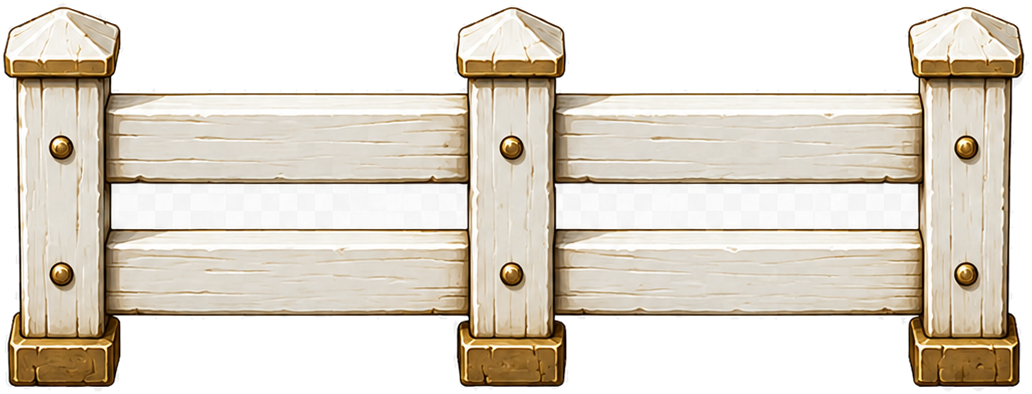
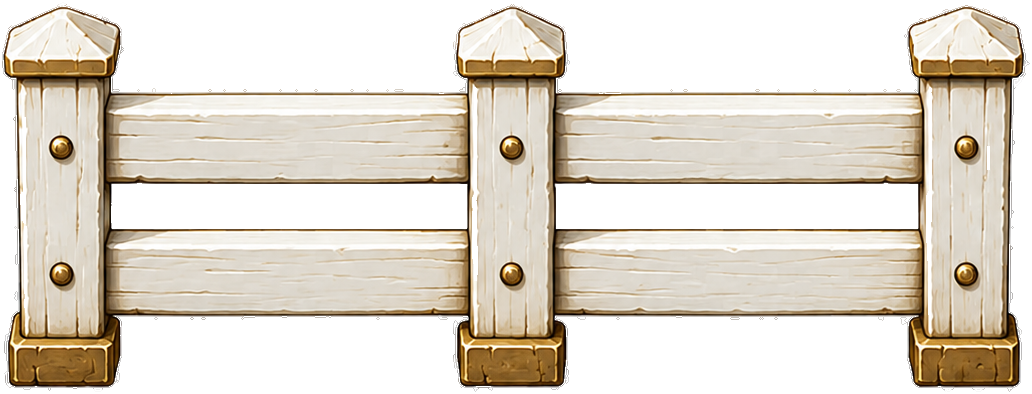
some object have been fixed from transparancy

diff --git a/game.js b/game.js
@@ -136,7 +136,9 @@ const FARM_BUILD=[
  {id:'dirt_road',n:'Dirt Road',img:'dirt_road',tab:'o',road:1,rw:44,W:44,gy:22},
  {id:'gravel_road',n:'Gravel Road',img:'gravel_road',tab:'o',road:1,rw:44,W:44,gy:22},
  /* 🌳 Decoration */
- {id:'light_farm',n:'Lamp Post',img:'light_farm',tab:'d',W:42,gy:10,col:{r:8}},
+ /* glow: where the flame sits in the art, as fractions of the sprite - measured off the pixels,
+    not eyeballed - plus the pool's radius as a fraction of W. See the farmitem draw for the flicker. */
+ {id:'light_farm',n:'Lamp Post',img:'light_farm',tab:'d',W:42,gy:10,col:{r:8},glow:{fx:0.799,fy:0.408,r:0.78}},
  {id:'bush',n:'Bush',img:'häck_farm',tab:'d',W:130,gy:16,col:{r:14,crx:65,cry:10,cyo:5},snap:'h'},
  {id:'bushv',n:'Bush (vertical)',img:'häckvertikal_farm',tab:'d',W:53,gy:16,col:{r:14,crx:18,cry:60,cyo:-45},snap:'v'},
  /* the roaming herd paths around anything with col, so the two ground pieces below carry
@@ -159,6 +161,13 @@ const FARM_BUILD=[
  {id:'haywagon',n:'Hay Wagon',img:'haywagon_farm',tab:'d',W:170,gy:20,col:{r:30,crx:74,cry:28,cyo:-6}},
  {id:'beehives',n:'Beehives',img:'beehives_farm',tab:'d',W:80,gy:12,col:{r:18}},
  {id:'farmsign',n:'Farm Sign',img:'farmsign_farm',tab:'d',W:60,gy:10,col:{r:8}},
+ /* --- decorations added later. sh values are measured off each sprite's real ground contact,
+        not guessed off its silhouette - see the tree/fountain note above for why that matters. --- */
+ {id:'windmill',n:'Windmill',img:'windmill_farm',tab:'d',W:150,gy:16,col:{r:30},sh:{rx:0.38,ry:0.10,dy:-0.01}},
+ {id:'appletree',n:'Apple Tree',img:'appletree_farm',tab:'d',W:170,gy:14,col:{r:16},
+  sh:{rx:0.22,ry:0.055,dy:-0.005},sway:{amp:0.030,spd:0.78,hold:0.58}}, /* sways like tree_farm - trunk still, canopy bends */
+ {id:'woodpile',n:'Firewood Pile',img:'woodpile_farm',tab:'d',W:125,gy:10,col:{r:16,crx:44,cry:14,cyo:0},sh:{rx:0.34,ry:0.075,dy:-0.01}},
+ {id:'crates',n:'Produce Crates',img:'crates_farm',tab:'d',W:105,gy:10,col:{r:14,crx:38,cry:14,cyo:0},sh:{rx:0.26,ry:0.065,dy:-0.01}},
  {id:'remove',n:'Remove',emoji:'🗑',tab:'*'} /* removes anything except the farmhouse */
 ];
 /* ⇄/⤢ per-piece look. fl:-1 mirrors the art, sc scales it (1 = catalogue size).
@@ -2456,7 +2465,8 @@ function farmDeselect(){
 const FARM_PRICES={lada:250000,staket:5000,staketv:5000,chickenhouse:100000,chickenfarm:0,chickenfarm_big:0,cowfarm:0,cowfarm_big:0,tjur:0,hay:0,hay_medium:0,hay_klar:0,hobal:0,chickenseeds:0,medium:350000,mansion:500000,dirt_road:0,gravel_road:0,light_farm:10000,bush:5000,bushv:5000,
  fountain:20000,tree_farm:15000,well:15000,scarecrow:10000,
  flowerbed:10000,pond:20000,pumpkins:10000,bench:10000,
- trough:12000,haywagon:18000,beehives:12000,farmsign:10000}; /* gold cost per placement */
+ trough:12000,haywagon:18000,beehives:12000,farmsign:10000,
+ windmill:60000,appletree:18000,woodpile:8000,crates:8000}; /* gold cost per placement */
 const FARM_SCRAPS={lada:300,chickenhouse:150,medium:600,mansion:800}; /* ⚙ scrap cost on top of gold */
 const FARM_ROAD_RATE={dirt_road:10,gravel_road:15}; /* 🛣 roads are priced by length: ◉ per world-unit drawn */
 const roadCost=g2=>Math.round(Math.hypot(g2.x1-g2.x0,g2.y1-g2.y0)*(FARM_ROAD_RATE[g2.t]||0));
@@ -2821,7 +2831,10 @@ function snapPos(id,x,y){
  if(!snapMode)return {x,y};
  if(!def||!def.snap)return {x,y};
  const my=itemSpanOf(def);
- let best=null,bd=SNAP_R;
+ /* 🧲 grab radius scales with the piece being placed. One flat SNAP_R meant a 13-wide fence post
+    snapped from 80 units away - it would jump to a neighbour you were not aiming at, which reads
+    as the snap being loose. def.snapR overrides for anything that wants to break the rule. */
+ let best=null,bd=def.snapR||Math.max(22,Math.min(SNAP_R,(my.W+my.H)*0.32));
  for(const it of [...((S.farm&&S.farm.b)||[]),...farmCart]){
   if(it._moving)continue;
   const d2=FARM_BUILD.find(o=>o.id===it.t);
@@ -2829,10 +2842,16 @@ function snapPos(id,x,y){
   const sp=itemSpanOf(d2),cands=[];
   if(def.snap==='h'&&d2.snap==='h')cands.push({x:it.x-sp.W,y:it.y},{x:it.x+sp.W,y:it.y});
   else if(def.snap==='v'&&d2.snap==='v')cands.push({x:it.x,y:it.y-sp.H},{x:it.x,y:it.y+sp.H});
-  else if(def.snap==='v') /* vertical piece onto a horizontal run: corner at either end, going up or down */
-   cands.push({x:it.x-sp.W/2,y:it.y},{x:it.x+sp.W/2,y:it.y},{x:it.x-sp.W/2,y:it.y+my.H},{x:it.x+sp.W/2,y:it.y+my.H});
-  else /* horizontal piece onto a vertical run: attach at its south or north end */
-   cands.push({x:it.x-my.W/2,y:it.y},{x:it.x+my.W/2,y:it.y},{x:it.x-my.W/2,y:it.y-sp.H},{x:it.x+my.W/2,y:it.y-sp.H});
+  /* corners: line the two pieces up by their OUTER faces, not by centre-on-end. Centring the post
+     on the rail's end left it hanging half its own width past the corner - the gap you could see.
+     Offsetting by half the difference tucks the post's outer edge flush with the rail's. */
+  else if(def.snap==='v'){ /* vertical piece onto a horizontal run: corner at either end, up or down */
+   const ex=Math.max(0,(sp.W-my.W)/2);
+   cands.push({x:it.x-ex,y:it.y},{x:it.x+ex,y:it.y},{x:it.x-ex,y:it.y+my.H},{x:it.x+ex,y:it.y+my.H});
+  }else{ /* horizontal piece onto a vertical run: attach at its south or north end */
+   const ex=Math.max(0,(my.W-sp.W)/2);
+   cands.push({x:it.x-ex,y:it.y},{x:it.x+ex,y:it.y},{x:it.x-ex,y:it.y-sp.H},{x:it.x+ex,y:it.y-sp.H});
+  }
   for(const c of cands){const d=Math.hypot(c.x-x,c.y-y);if(d<bd){bd=d;best=c;}}
  }
  return best||{x,y};
@@ -6272,6 +6291,23 @@ function drawProp(s,z){
     }
    }else ctx.drawImage(crisp(im,W),-W/2,gy-H,W,H); /* crisp(): device-pixel exact - no mip shimmer on fences */
    ctx.restore();
+   if(def.glow){
+    /* 🔥 a lit lantern: a warm pool over the flame that breathes. Two sine rates rather than one -
+       a single sine reads as a mechanical pulse, two beat against each other and look like flame.
+       Drawn outside the flip save, so the position mirrors by hand when the piece is flipped.
+       Phase comes from the piece's x, so a row of lamps does not flicker in unison. */
+    const gt=performance.now()/1000+s.x*0.07;
+    const fk=0.84+0.11*Math.sin(gt*2.1)+0.05*Math.sin(gt*3.7);
+    const gx=(fl<0?-1:1)*(def.glow.fx*W-W/2),gyy=(gy-H)+def.glow.fy*H,gr=def.glow.r*W*fk;
+    const grd=ctx.createRadialGradient(gx,gyy,0,gx,gyy,gr);
+    grd.addColorStop(0,'rgba(255,232,158,'+(0.80*fk).toFixed(3)+')');
+    grd.addColorStop(0.35,'rgba(255,200,96,'+(0.40*fk).toFixed(3)+')');
+    grd.addColorStop(0.7,'rgba(255,180,70,'+(0.14*fk).toFixed(3)+')');
+    grd.addColorStop(1,'rgba(255,170,60,0)');
+    ctx.save();ctx.globalCompositeOperation='lighter';
+    ctx.fillStyle=grd;ctx.beginPath();ctx.arc(gx,gyy,gr,0,7);ctx.fill();
+    ctx.restore();
+   }
    if(def.roam&&s.it){ /* mood tag: 💕 expecting/brooding · ❤ sated (next meal not yet due) */
     const tag=(s.it.preg||s.it.egg)?'💕':(Date.now()-(s.it.fed||0)<(def.eatT||HAPPY_T)?'❤':null);
     if(tag){ctx.font='700 12px system-ui';ctx.textAlign='center';ctx.fillStyle='#ff8aa0';ctx.fillText(tag,0,gy-H-5);}
